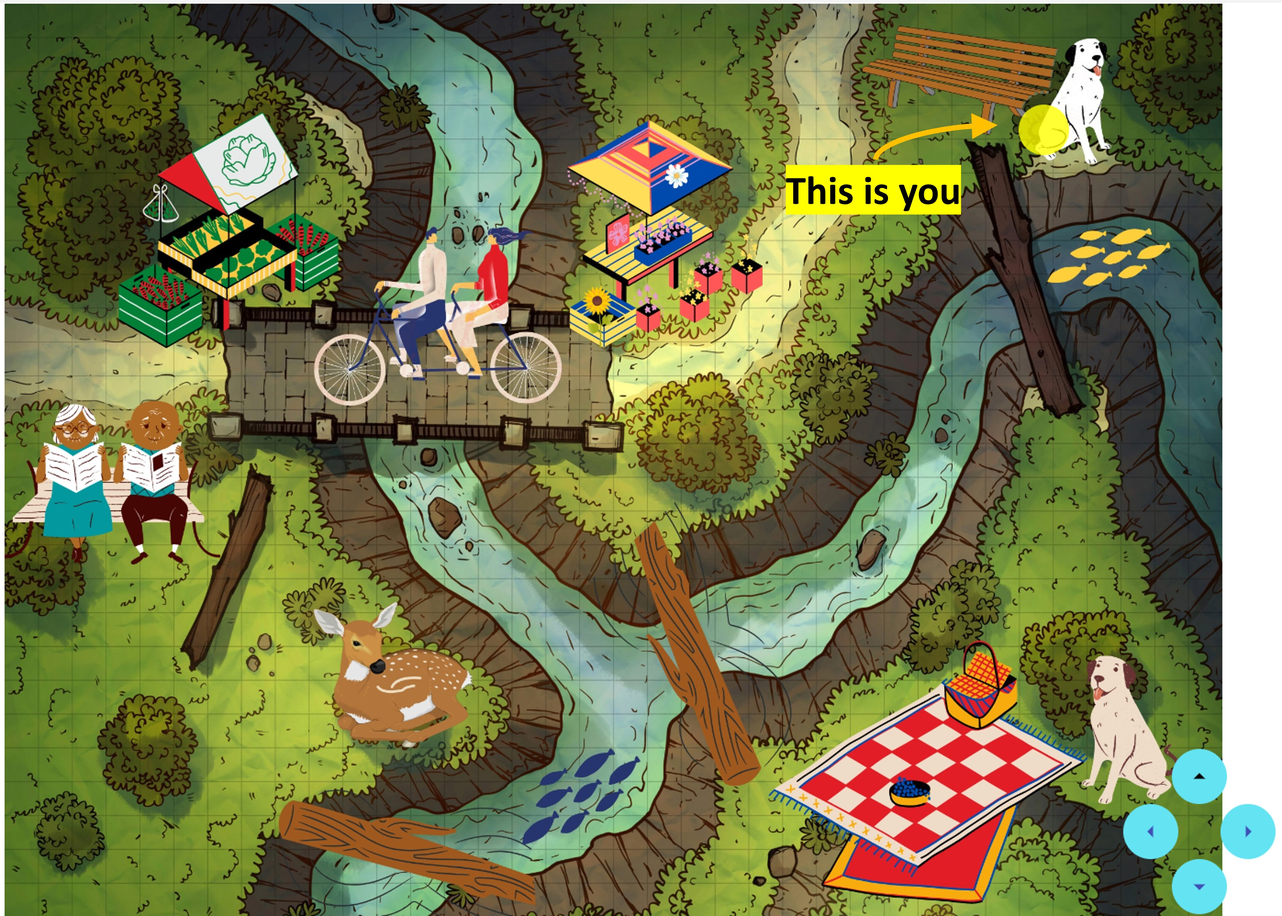
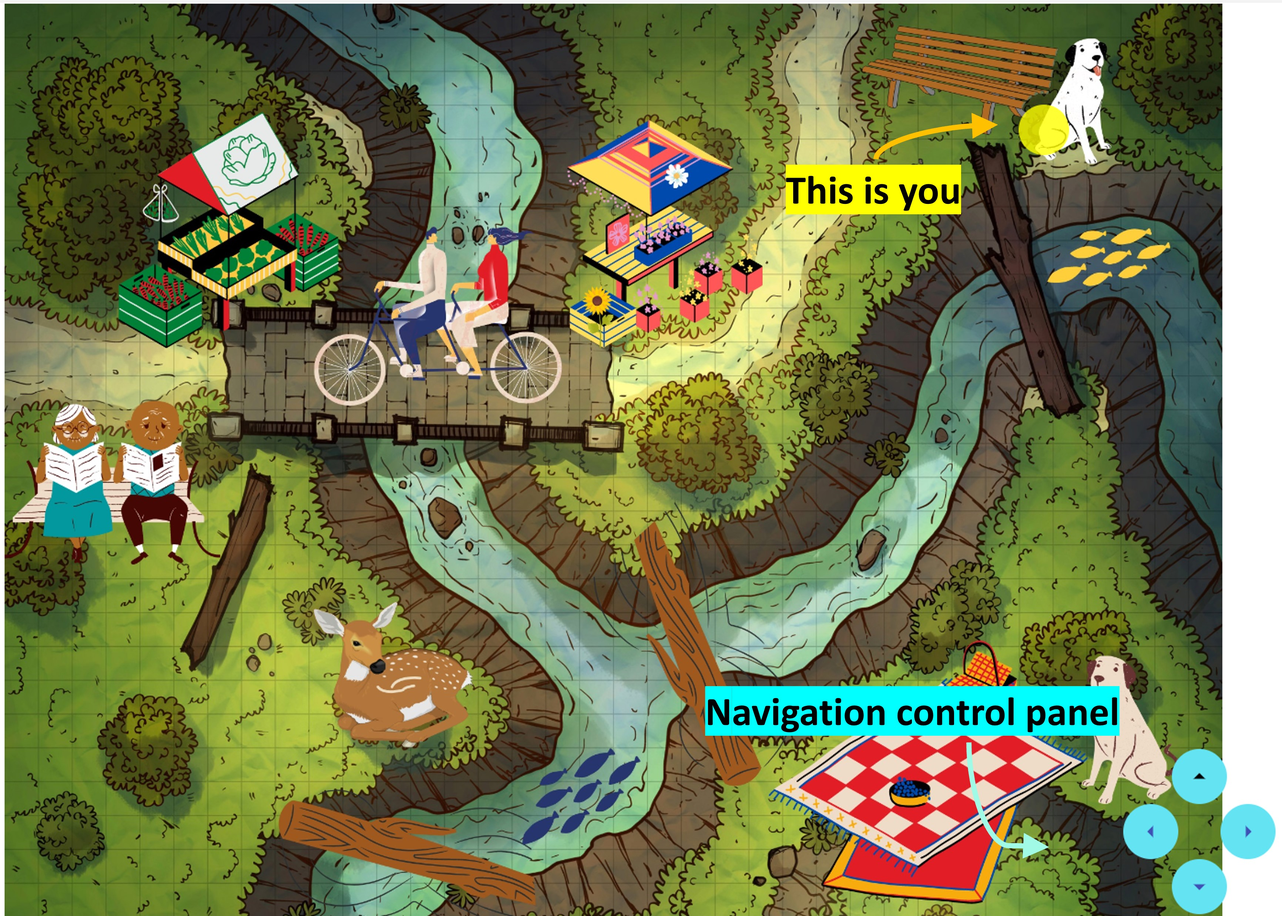
fix nav instruction image with control panel text

Changed region(s): [[0.53, 0.7467, 0.873, 0.9333]]

diff --git a/client/src/map_task/MapCanvas.css b/client/src/map_task/MapCanvas.css
@@ -59,7 +59,7 @@
 
 .map_nav_buttons {
     position: absolute;
-    bottom: 1%;
+    bottom: 2%;
     right: 1%;
     display: flex;
     flex-direction: column;
